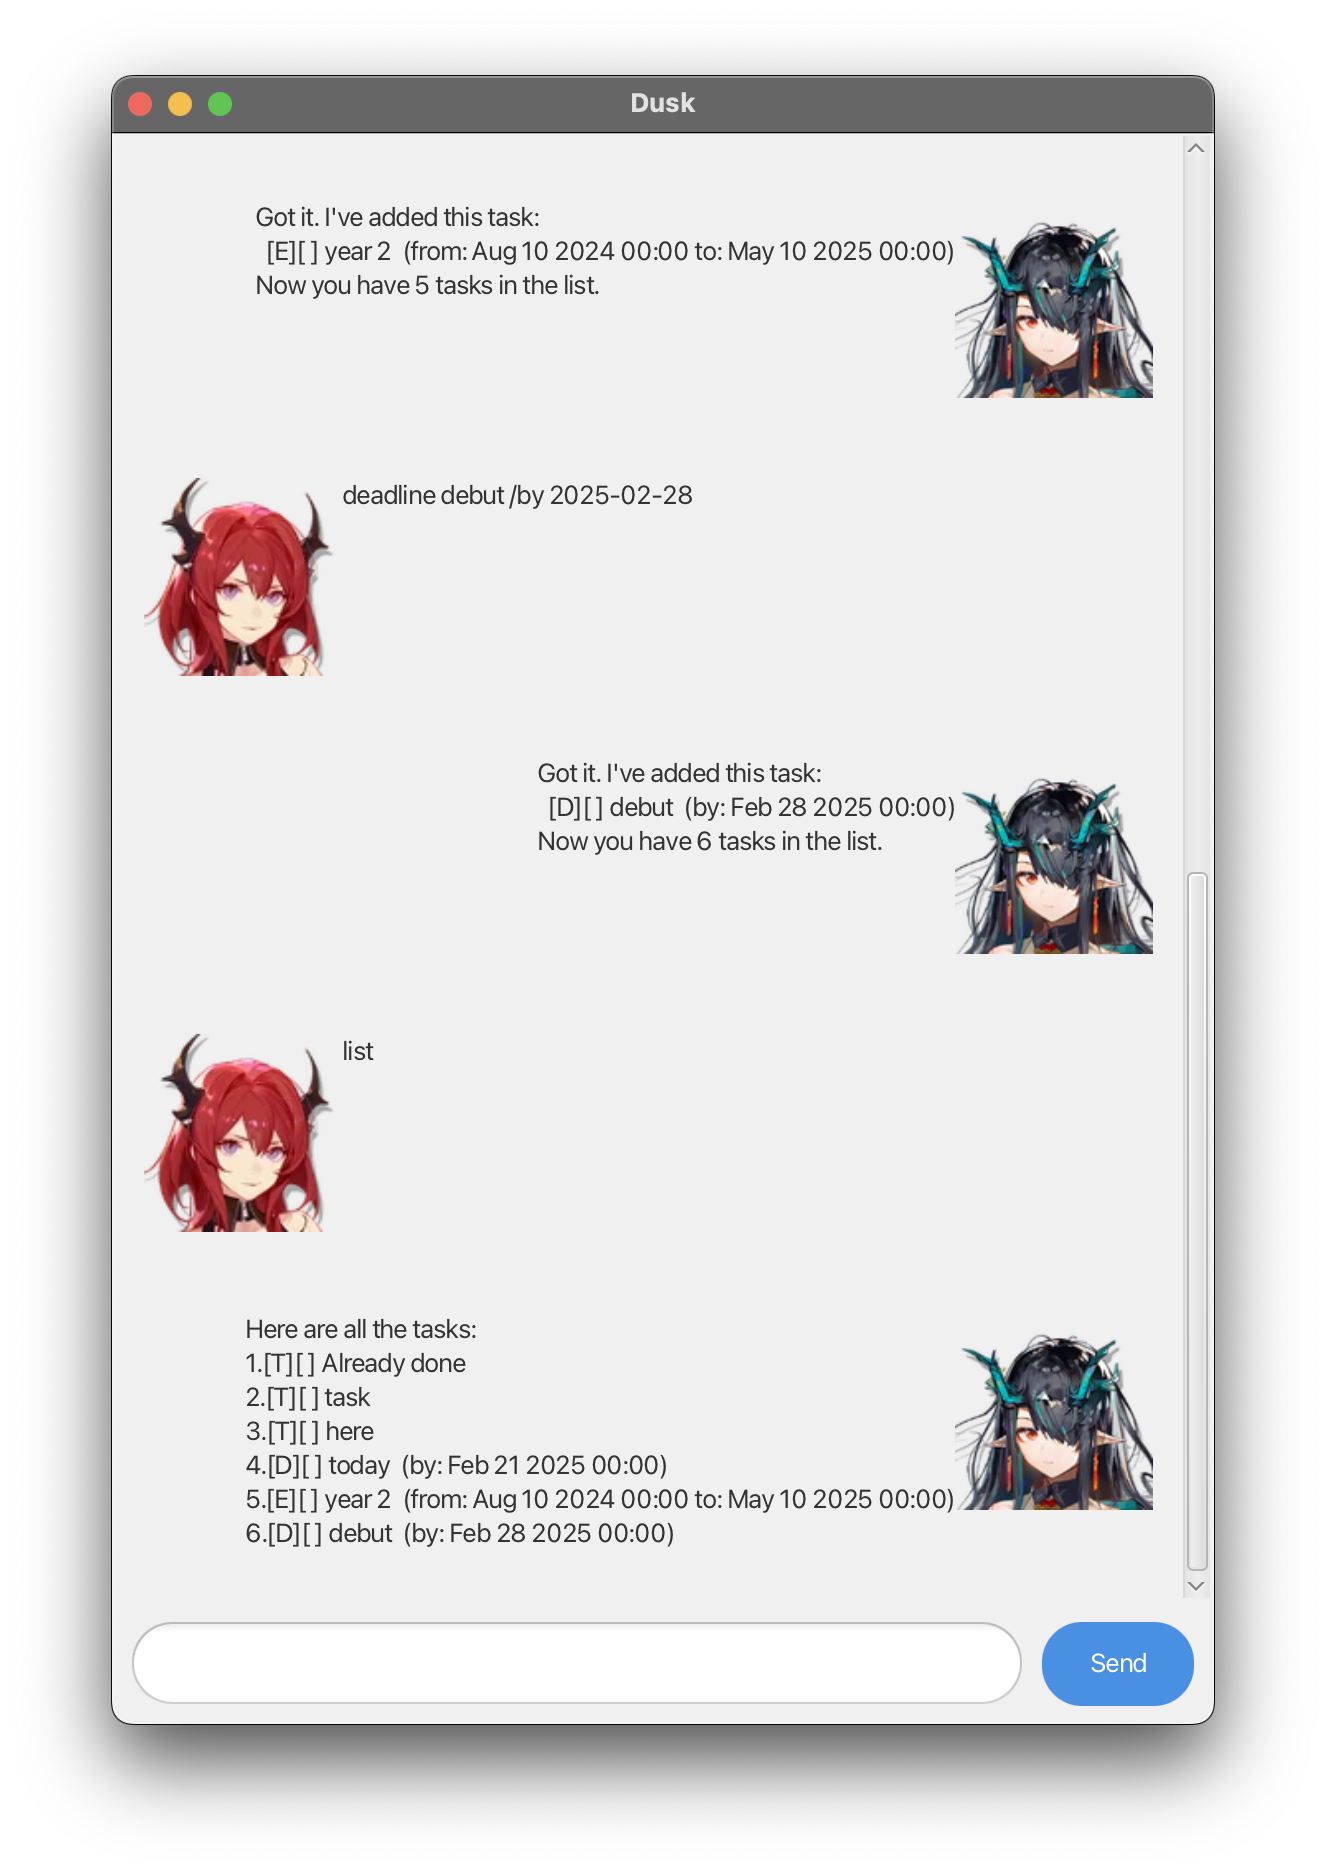
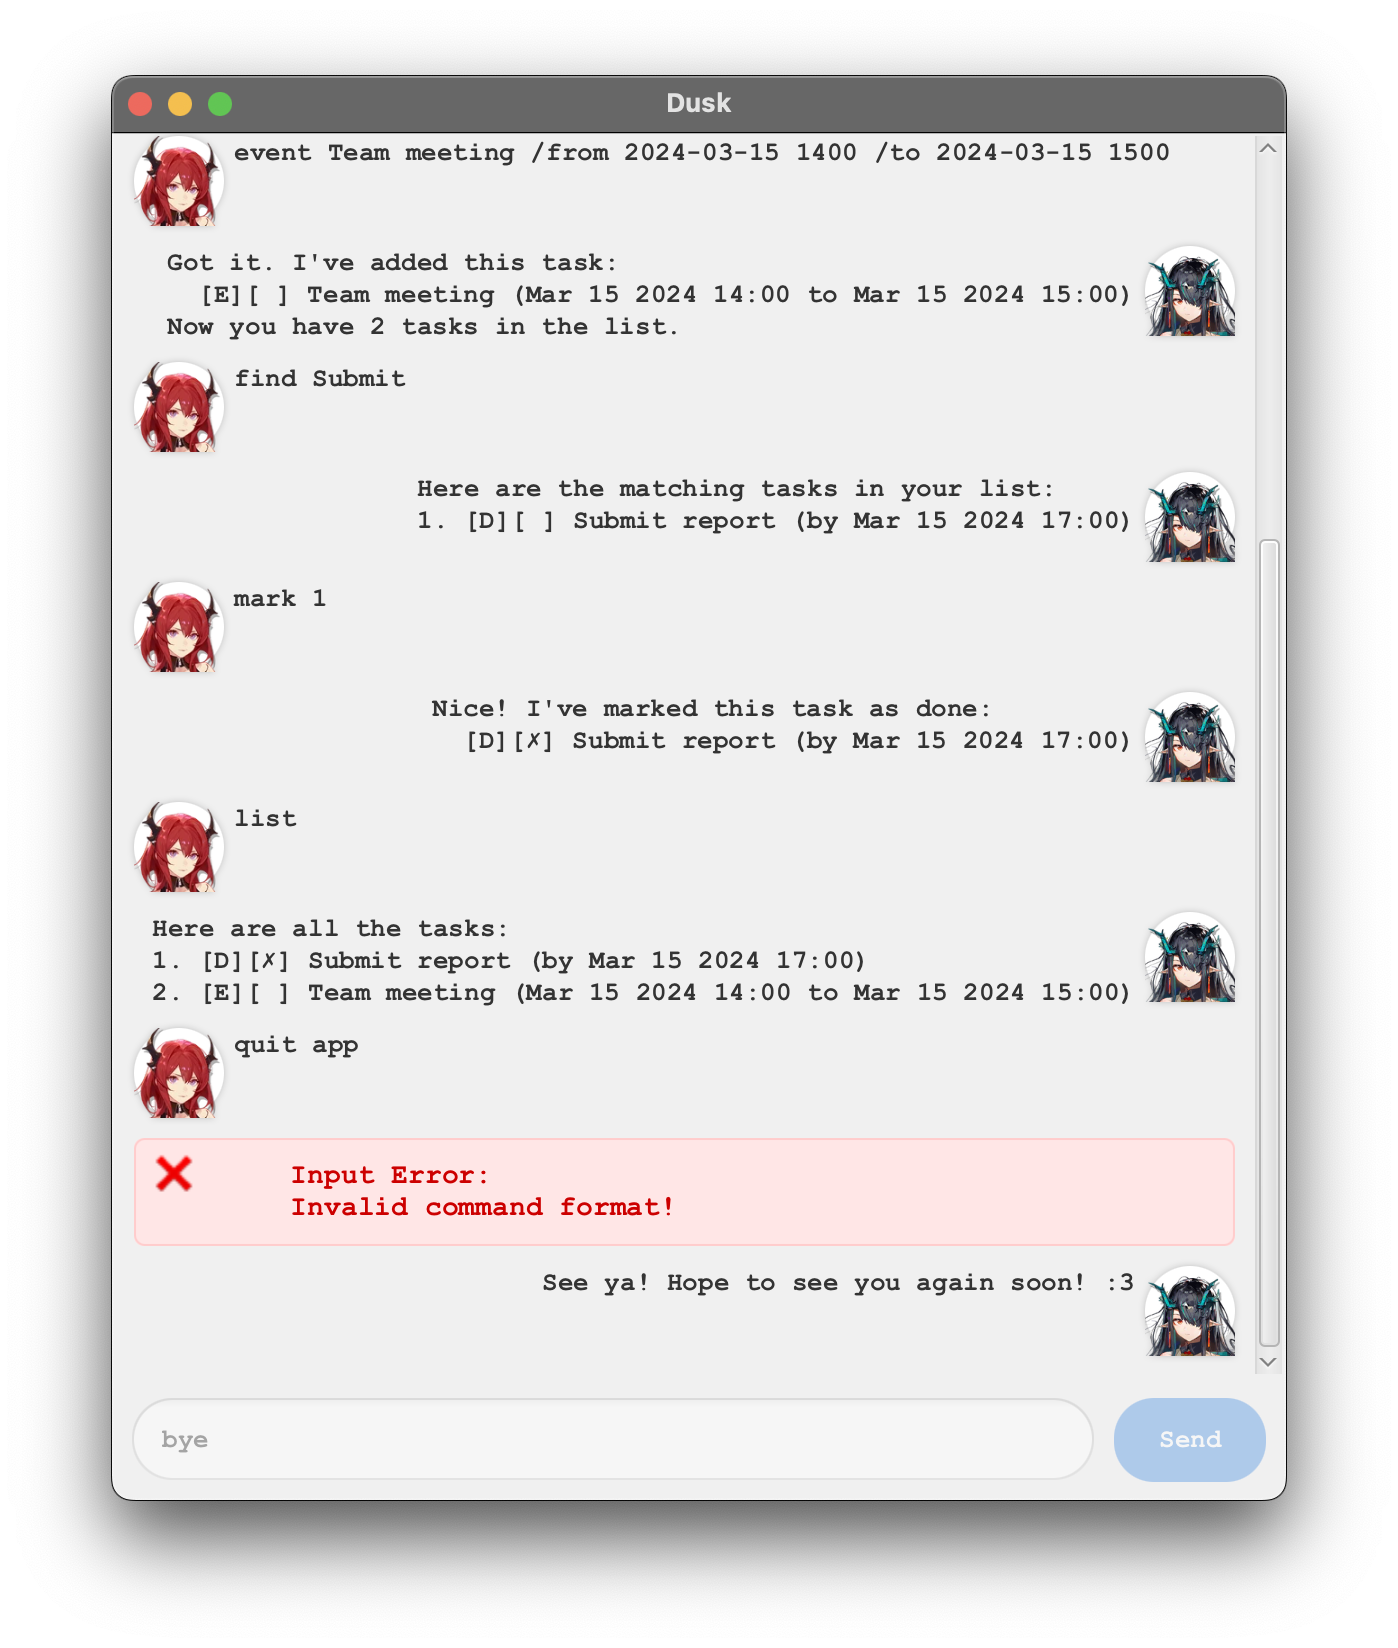
Refactor GUI components and improve UI styling

Changed region(s): [[0.0618, 0.0309, 0.9276, 0.9593], [0.3092, 0.4023, 0.3401, 0.4333]]

diff --git a/src/main/resources/css/styles.css b/src/main/resources/css/styles.css
@@ -1,20 +1,30 @@
+/* Root styles */
 .root {
     -fx-background-color: #f0f0f0;
+    -fx-font-family: 'Consolas', 'Monaco', 'DejaVu Sans Mono', 'Monospace';
 }
 
+/* Input elements */
 .text-field {
+    -fx-font-family: 'Monospace';
+    -fx-font-weight: bold;
     -fx-background-radius: 20;
     -fx-border-radius: 20;
-    -fx-padding: 0 15 0 15;
+    -fx-padding: 0 15;
 }
 
 .button {
+    -fx-font-family: 'Monospace';
+    -fx-font-weight: bold;
     -fx-background-radius: 20;
     -fx-background-color: #4a90e2;
     -fx-text-fill: white;
 }
 
+/* Scrolling container */
 .scroll-pane {
+    -fx-font-family: 'Monospace';
+    -fx-font-weight: bold;
     -fx-background-color: transparent;
     -fx-border-color: transparent;
     -fx-padding: 0;
@@ -26,35 +36,9 @@
     -fx-background-color: transparent;
 }
 
+/* Dialog elements */
 .dialog-container {
     -fx-padding: 10;
-}
-
-.profile-picture {
-    -fx-background-radius: 50%;
-    -fx-background-color: white;
-    -fx-effect: dropshadow(gaussian, rgba(0, 0, 0, 0.2), 4, 0, 0, 2);
-}
-
-.profile-picture .image-view {
-    -fx-background-radius: 50%;
-    -fx-background-color: white;
-}
-
-.error-box {
-    -fx-background-color: #ffe6e6;
-    -fx-padding: 10;
-    -fx-spacing: 10;
-    -fx-border-color: #ffcccc;
-    -fx-border-width: 1;
-    -fx-border-radius: 5;
-    -fx-background-radius: 5;
-    -fx-margin: 5 0;
-}
-
-.error-box .error-text {
-    -fx-fill: #cc0000;
-    -fx-font-size: 14px;
 }
 
 .dialog-box {
@@ -72,9 +56,32 @@
     -fx-background-color: #f5f5f5;
 }
 
+/* Profile picture */
 .profile-picture {
     -fx-background-radius: 50%;
     -fx-background-color: white;
-    -fx-effect: dropshadow(three-pass-box, rgba(0,0,0,0.2), 4, 0, 0, 0);
+    -fx-effect: dropshadow(three-pass-box, rgba(0, 0, 0, 0.2), 4, 0, 0, 0);
     -fx-clip-type: circle;
+}
+
+.profile-picture .image-view {
+    -fx-background-radius: 50%;
+    -fx-background-color: white;
+}
+
+/* Error styling */
+.error-box {
+    -fx-background-color: #ffe6e6;
+    -fx-padding: 10;
+    -fx-spacing: 10;
+    -fx-border-color: #ffcccc;
+    -fx-border-width: 1;
+    -fx-border-radius: 5;
+    -fx-background-radius: 5;
+    -fx-margin: 5 0;
+}
+
+.error-box .error-text {
+    -fx-fill: #cc0000;
+    -fx-font-size: 14px;
 }

diff --git a/src/main/java/dusk/gui/DialogBox.java b/src/main/java/dusk/gui/DialogBox.java
@@ -16,8 +16,7 @@ import java.util.logging.Level;
 import java.util.logging.Logger;
 
 /**
- * A custom dialog box for the chat interface.
- * Displays either user or system messages with appropriate styling.
+ * A custom dialog box for the chat interface that displays user or system messages.
  */
 public class DialogBox extends HBox {
     private static final Logger LOGGER = Logger.getLogger(DialogBox.class.getName());
@@ -27,19 +26,19 @@ public class DialogBox extends HBox {
     @FXML
     private Label dialog;
     @FXML
-    private ProfilePicture profilePicture; // Changed from ImageView to ProfilePicture
+    private ProfilePicture profilePicture;
 
     /**
-     * Private constructor to create a dialog box.
+     * Constructs a DialogBox with the specified text, image, and error flag.
      *
-     * @param text    the text to display
-     * @param img     the image (can be null)
-     * @param isError {@code true} if this dialog represents an error message
+     * @param text    the text to display.
+     * @param img     the image (can be null).
+     * @param isError {@code true} if this dialog represents an error message.
      */
     private DialogBox(String text, Image img, boolean isError) {
+        dialog = new Label();
         try {
             loadFxml(isError);
-            // Initialize ProfilePicture if it wasn't created by FXML
             if (profilePicture == null) {
                 profilePicture = new ProfilePicture(img);
             }
@@ -50,10 +49,10 @@ public class DialogBox extends HBox {
     }
 
     /**
-     * Private constructor for non-error messages.
+     * Constructs a DialogBox for non-error messages with the specified text and image.
      *
-     * @param text the text to display
-     * @param img  the image (can be null)
+     * @param text the text to display.
+     * @param img  the image (can be null).
      */
     private DialogBox(String text, Image img) {
         this(text, img, false);
@@ -62,23 +61,23 @@ public class DialogBox extends HBox {
     /**
      * Creates a dialog box for user messages.
      *
-     * @param text the user's message
-     * @param img  the user's avatar image
-     * @return a dialog box configured for user messages
+     * @param text the user's message.
+     * @param img  the user's avatar image.
+     * @return a DialogBox configured for user messages.
      */
     public static DialogBox getUserDialog(String text, Image img) {
-        var db = new DialogBox(text, img);
-        db.flip();
-        return db;
+        DialogBox dialogBox = new DialogBox(text, img);
+        dialogBox.flip();
+        return dialogBox;
     }
 
     /**
-     * Creates a dialog box for Dusk messages with styling based on response type.
+     * Creates a dialog box for system messages with styling based on the response type.
      *
-     * @param text the message to display
-     * @param img  the Dusk avatar image
-     * @param type the type of response
-     * @return a dialog box configured for Dusk messages
+     * @param text the message to display.
+     * @param img  the system avatar image.
+     * @param type the type of response.
+     * @return a DialogBox configured for system messages.
      */
     public static DialogBox getDuskDialog(String text, Image img, DuskResponseType type) {
         return type == DuskResponseType.ERROR
@@ -89,7 +88,8 @@ public class DialogBox extends HBox {
     /**
      * Loads the appropriate FXML layout.
      *
-     * @param isError {@code true} to load the error-specific layout
+     * @param isError {@code true} to load the error-specific layout.
+     * @throws IOException if the FXML file cannot be loaded.
      */
     private void loadFxml(boolean isError) throws IOException {
         FXMLLoader fxmlLoader = new FXMLLoader(getClass().getResource(
@@ -102,8 +102,8 @@ public class DialogBox extends HBox {
     /**
      * Configures the dialog with the specified text and image.
      *
-     * @param text the text to display
-     * @param img  the image to display; if null the image view is hidden
+     * @param text the text to display.
+     * @param img  the image to display; if null, the image view is hidden.
      */
     private void configureDialog(String text, Image img) {
         dialog.setText(text);
@@ -116,9 +116,9 @@ public class DialogBox extends HBox {
      * Flips the dialog box so that the image appears on the left.
      */
     private void flip() {
-        ObservableList<Node> tmp = FXCollections.observableArrayList(this.getChildren());
-        Collections.reverse(tmp);
-        getChildren().setAll(tmp);
+        ObservableList<Node> children = FXCollections.observableArrayList(getChildren());
+        Collections.reverse(children);
+        getChildren().setAll(children);
         setAlignment(Pos.TOP_LEFT);
     }
 }

diff --git a/src/main/java/dusk/gui/MainWindow.java b/src/main/java/dusk/gui/MainWindow.java
@@ -3,6 +3,7 @@ package dusk.gui;
 import java.util.Objects;
 import java.util.concurrent.CompletableFuture;
 import java.util.concurrent.TimeUnit;
+
 import dusk.Dusk;
 import dusk.ui.DuskResponse;
 import dusk.ui.DuskResponseType;
@@ -20,7 +21,6 @@ import javafx.stage.Stage;
  * The primary user interface component that handles user interactions for the Dusk application.
  */
 public class MainWindow extends AnchorPane {
-
     private static final String USER_IMAGE_PATH = "/images/surtr.png";
     private static final String DUSK_IMAGE_PATH = "/images/dusk.png";
 
@@ -41,6 +41,7 @@ public class MainWindow extends AnchorPane {
      * Constructs a MainWindow.
      */
     public MainWindow() {
+        // Constructor implementation.
         userImage = loadImage(USER_IMAGE_PATH);
         duskImage = loadImage(DUSK_IMAGE_PATH);
     }
@@ -48,8 +49,8 @@ public class MainWindow extends AnchorPane {
     /**
      * Loads an image from the specified path.
      *
-     * @param path the image path
-     * @return the loaded image
+     * @param path the image path.
+     * @return the loaded image.
      */
     private Image loadImage(String path) {
         return new Image(Objects.requireNonNull(
@@ -69,7 +70,7 @@ public class MainWindow extends AnchorPane {
     /**
      * Injects the Dusk instance.
      *
-     * @param d the Dusk instance
+     * @param d the Dusk instance.
      */
     public void setDusk(Dusk d) {
         assert d != null : "Dusk instance cannot be null";
@@ -96,8 +97,8 @@ public class MainWindow extends AnchorPane {
     /**
      * Determines whether the provided input is an exit command.
      *
-     * @param input the user input
-     * @return {@code true} if the input is an exit command, otherwise {@code false}
+     * @param input the user input.
+     * @return {@code true} if the input is an exit command, otherwise {@code false}.
      */
     private boolean isExitCommand(String input) {
         return "bye".equalsIgnoreCase(input);
@@ -114,7 +115,7 @@ public class MainWindow extends AnchorPane {
     /**
      * Displays Dusk's response in the dialog container.
      *
-     * @param response the response to display
+     * @param response the response to display.
      */
     private void displayDuskResponse(DuskResponse response) {
         if (response.getType() == DuskResponseType.ERROR) {
@@ -136,7 +137,7 @@ public class MainWindow extends AnchorPane {
     /**
      * Processes a user message.
      *
-     * @param message the user message
+     * @param message the user message.
      */
     private void processUserMessage(String message) {
         DialogBox userDialog = DialogBox.getUserDialog(message, userImage);
@@ -159,7 +160,6 @@ public class MainWindow extends AnchorPane {
         clearUserInput();
     }
 
-
     /**
      * Clears the user input field.
      */
@@ -170,7 +170,7 @@ public class MainWindow extends AnchorPane {
     /**
      * Displays an error message in the dialog container.
      *
-     * @param errorMessage the error message to display
+     * @param errorMessage the error message to display.
      */
     private void displayError(String errorMessage) {
         ErrorBox errorBox = new ErrorBox(errorMessage);

diff --git a/src/main/java/dusk/gui/ProfilePicture.java b/src/main/java/dusk/gui/ProfilePicture.java
@@ -12,30 +12,28 @@ public class ProfilePicture extends StackPane {
     private final ImageView imageView;
 
     /**
-     * No-argument constructor required for FXML.
-     * Creates a profile picture with no image and default size.
+     * Constructs a ProfilePicture with no image and default size.
      */
     public ProfilePicture() {
         this(null, DEFAULT_SIZE);
     }
 
     /**
-     * Creates a new profile picture with the default size.
+     * Constructs a ProfilePicture with the specified image and default size.
      *
-     * @param image the image to display
+     * @param image the image to display.
      */
     public ProfilePicture(Image image) {
         this(image, DEFAULT_SIZE);
     }
 
     /**
-     * Creates a new profile picture with the specified size.
+     * Constructs a ProfilePicture with the specified image and size.
      *
-     * @param image the image to display
-     * @param size  the size for both the width and height of the profile picture
+     * @param image the image to display.
+     * @param size  the size for the profile picture.
      */
     public ProfilePicture(Image image, double size) {
-
         imageView = new ImageView(image);
         imageView.setFitWidth(size);
         imageView.setFitHeight(size);
@@ -51,7 +49,7 @@ public class ProfilePicture extends StackPane {
     /**
      * Updates the profile picture with a new image.
      *
-     * @param image the new image to display
+     * @param image the new image to display.
      */
     public void setImage(Image image) {
         imageView.setImage(image);

diff --git a/src/main/java/dusk/gui/ErrorBox.java b/src/main/java/dusk/gui/ErrorBox.java
@@ -8,13 +8,12 @@ import javafx.scene.text.TextFlow;
  * An error message box that spans the width of the chat container.
  */
 public class ErrorBox extends HBox {
-
     private static final String ERROR_STYLE_CLASS = "error-box";
 
     /**
-     * Creates an error box displaying the specified error message.
+     * Constructs an ErrorBox displaying the specified error message.
      *
-     * @param errorMessage the error message to display
+     * @param errorMessage the error message to display.
      */
     public ErrorBox(String errorMessage) {
         TextFlow textFlow = new TextFlow();

diff --git a/src/main/java/dusk/DuskExceptionType.java b/src/main/java/dusk/DuskExceptionType.java
@@ -4,11 +4,9 @@ package dusk;
  * Enumerates the types of exceptions that can be thrown in the Dusk application.
  */
 public enum DuskExceptionType {
-    COMMAND_ERROR("Command Error"),
     INPUT_ERROR("Input Error"),
     STORAGE_ERROR("Storage Error"),
-    TASK_ERROR("Task Error"),
-    SYSTEM_ERROR("System Error");
+    TASK_ERROR("Task Error");
 
     private final String label;
 

diff --git a/src/main/java/dusk/ui/DuskIO.java b/src/main/java/dusk/ui/DuskIO.java
@@ -52,7 +52,7 @@ public class DuskIO implements Closeable {
      */
     public void print(String... messages) throws IOException {
         for (String message : messages) {
-            bufferedWriter.write("\t" + message);
+            bufferedWriter.write(message);
             bufferedWriter.newLine();
         }
         bufferedWriter.flush();
